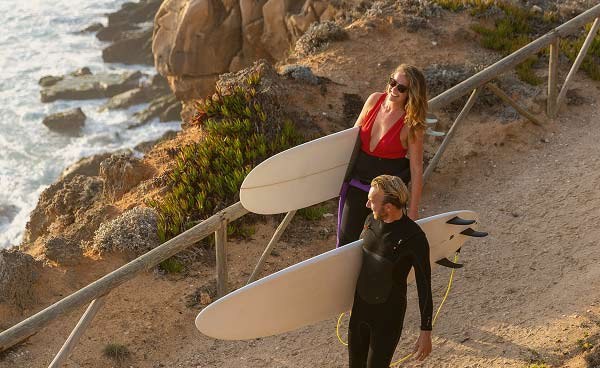
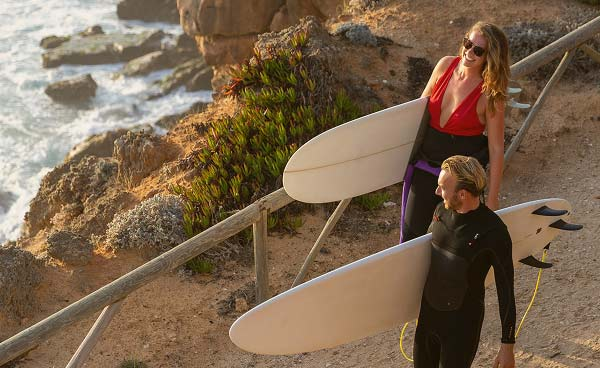
Add files via upload

diff --git a/YourDayYourChoice/300x250/index.html b/YourDayYourChoice/300x250/index.html
@@ -27,7 +27,7 @@
 	body {
 		width: 100%;
 		height: 100%;
-		/* padding:48px; for review*/
+		padding:48px; 
 	}
 
 	body,
@@ -142,6 +142,7 @@
 		position: absolute;
 		width: 300px;
 		height: 174px;
+		top:-10px;
 		overflow: hidden;
 		opacity: 0;
 	}
@@ -150,6 +151,7 @@
 		position: absolute;
 		width: 300px;
 		height: 174px;
+		top:0px;
 		overflow: hidden;
 		opacity: 0;
 	}
@@ -228,12 +230,12 @@ function startAd() {
 function initAnimation(){
 var bannerTimeline = gsap.timeline();
 var containerScale = .96;
-// bannerTimeline.timeScale(6.5);
+//bannerTimeline.timeScale(6.5);
 
 //frame1
 bannerTimeline.from(".img-1",{duration:6, y:10, scale:1.5, ease:"none",transformOrigin:"50% 50%"},0);
 bannerTimeline.to(".photoslideshow",{duration:1,height:'156px', scale:1, ease:"power2.inOut",transformOrigin:"50% 50%"},1);
-bannerTimeline.to(".logo",{duration:1,y:-38,x:0, scale:1, ease: "power2.inOut", transformOrigin:"50% 50%"},1);
+bannerTimeline.to(".logo",{duration:1,y:-36,x:0, scale:1, ease: "power2.inOut", transformOrigin:"50% 50%"},1);
 
 //frame2
 bannerTimeline.to(".photoslideshow",{duration:.5, scale:containerScale, ease:"sine.inOut",transformOrigin:"50% 50%"},2);
@@ -251,7 +253,7 @@ bannerTimeline.from(".img-3",{duration:5,x:30, scale:1.2, ease: "none",transform
 bannerTimeline.to(".photoslideshow",{duration:.5, scale:containerScale, ease:"sine.inOut",transformOrigin:"50% 50%"},8);
 bannerTimeline.to(".photoslideshow",{duration:.5, scale:1, ease:"sine.inOut",transformOrigin:"50% 50%"},8.5);
 bannerTimeline.to(".image-holder-4",{duration:.5,alpha:1,  ease: "none"},8.2);
-bannerTimeline.from(".img-4",{duration:5,x:-20, y:-50,scale:1.2, ease: "none",transformOrigin:"50% 50%"},8);
+bannerTimeline.to(".img-4",{duration:5,x:20, y:-40,scale:1.2, ease: "none",transformOrigin:"50% 50%"},8);
 
 //frame5
 bannerTimeline.to(".photoslideshow",{duration:.5, scale:containerScale, ease:"sine.inOut",transformOrigin:"50% 50%"},11);
